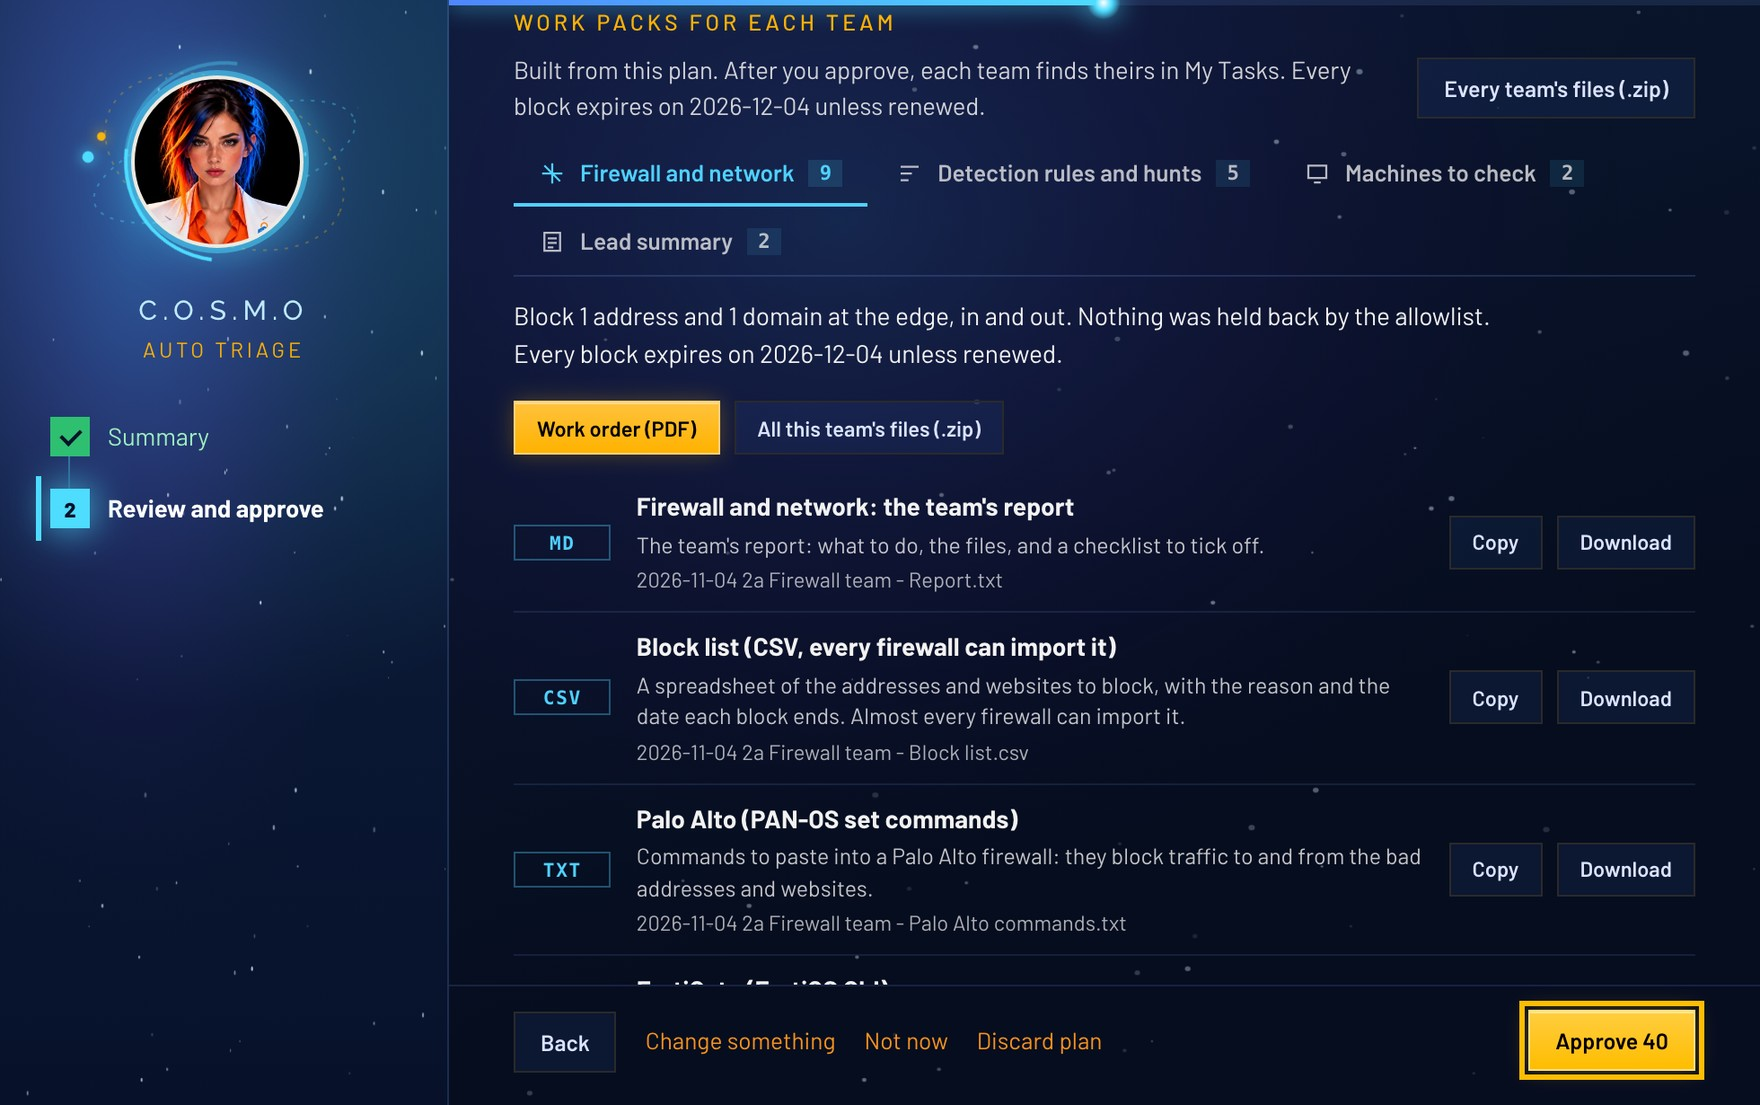
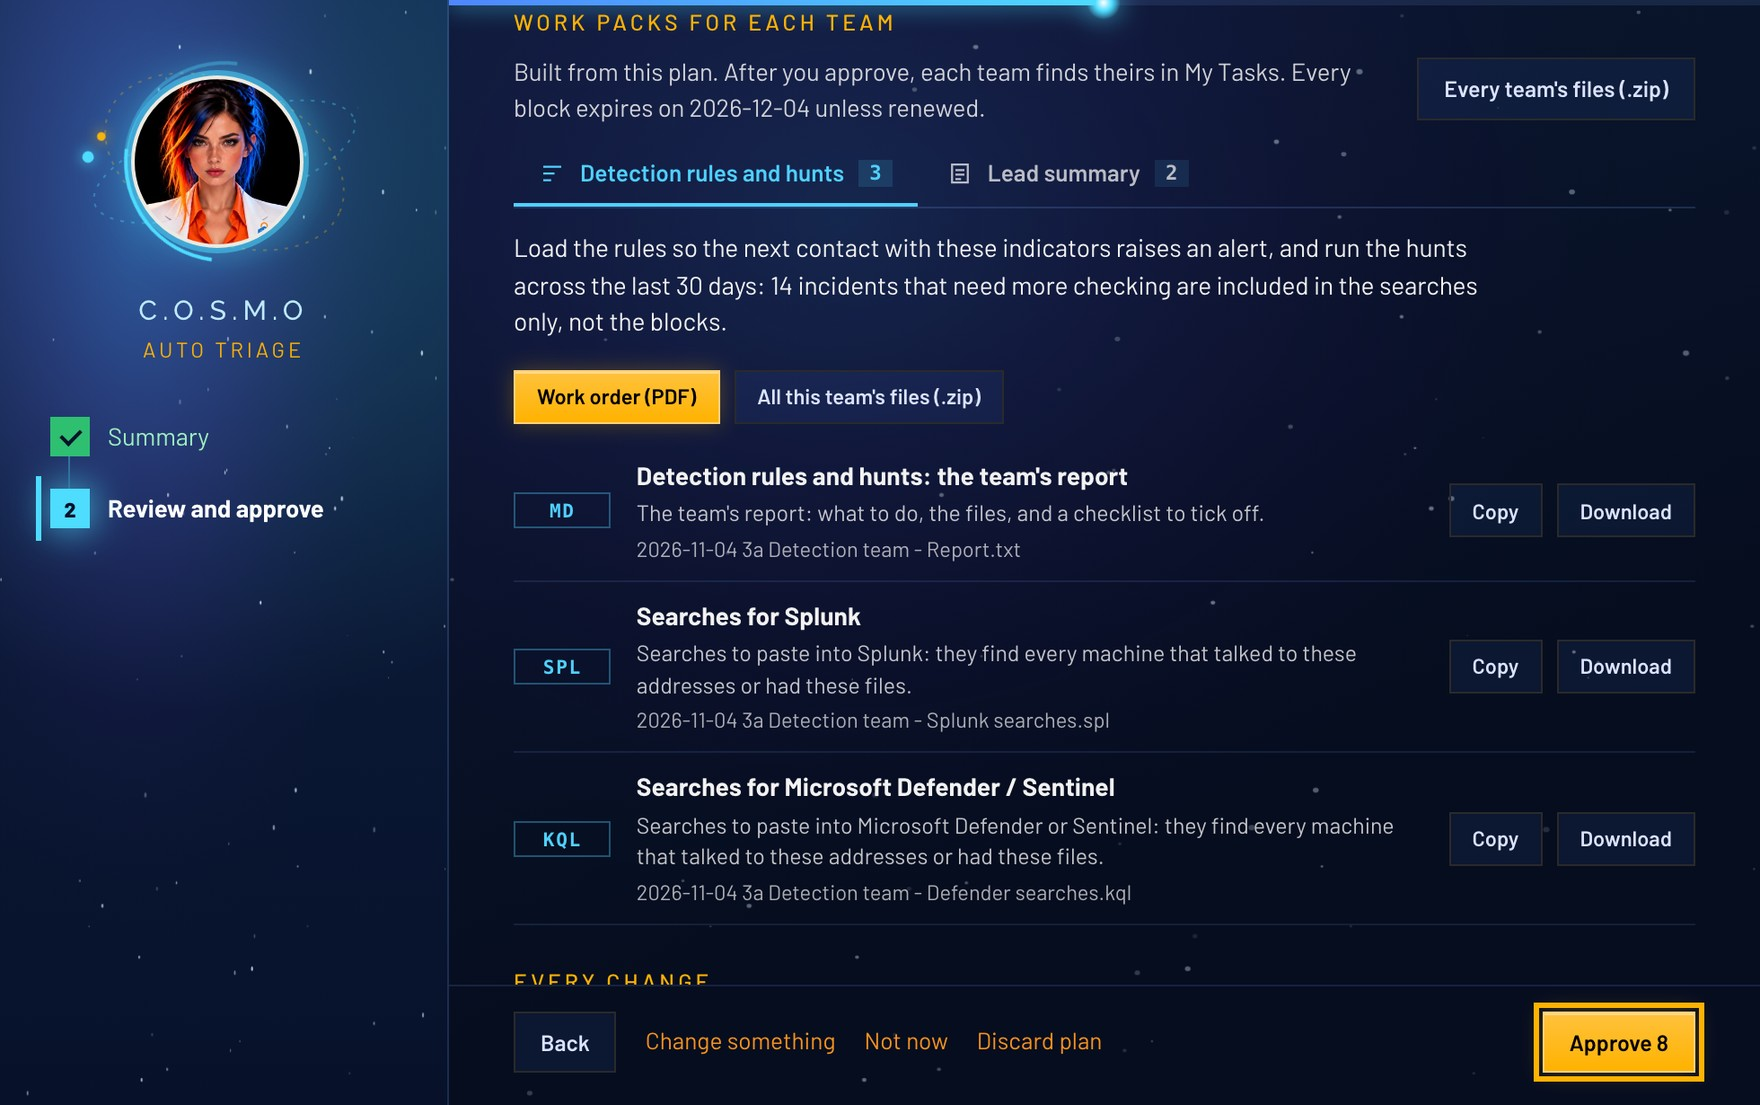
Bot screens: retaken with the new Auto Triage wording

diff --git a/security.html b/security.html
@@ -52,7 +52,7 @@
         
         <ul class="flow"><li class="flow-label">How it works</li><li class="step">C.O.S.M.O recommends</li><li class="arrow" aria-hidden="true"><svg viewBox="0 0 24 24" aria-hidden="true"><use href="#i-arrow"/></svg></li><li class="step person">Your team decides</li><li class="arrow" aria-hidden="true"><svg viewBox="0 0 24 24" aria-hidden="true"><use href="#i-arrow"/></svg></li><li class="step">Sealed record</li></ul>
       </div>
-      <div class="feature-media" data-reveal="right"><figure class="device-laptop "><div class="lid"><div class="screen"><img src="assets/img/bot-4-packs.jpg?v=20261109n" width="1760" height="1105" alt="Work orders for each team: firewall commands and rules, ready to copy or download. C.O.S.M.O writes them and your team applies them." loading="lazy"></div></div><div class="base"></div></figure></div>
+      <div class="feature-media" data-reveal="right"><figure class="device-laptop "><div class="lid"><div class="screen"><img src="assets/img/bot-4-packs.jpg?v=20261109q" width="1760" height="1105" alt="Work orders for each team: firewall commands and rules, ready to copy or download. C.O.S.M.O writes them and your team applies them." loading="lazy"></div></div><div class="base"></div></figure></div>
     </div>
   </div>
 </section>

diff --git a/index.html b/index.html
@@ -136,9 +136,9 @@
         <div class="morph-glass">
           <img src="assets/img/bot-5-chat.jpg?v=20261103c" alt="" loading="lazy">
           <img src="assets/img/bot-1-queue.jpg?v=20261103c" alt="" loading="lazy">
-          <img src="assets/img/bot-2-plan.jpg?v=20261109n" alt="" loading="lazy">
-          <img src="assets/img/bot-3-approve.jpg?v=20261109n" alt="" loading="lazy">
-          <img src="assets/img/bot-4-packs.jpg?v=20261109n" alt="" loading="lazy">
+          <img src="assets/img/bot-2-plan.jpg?v=20261109q" alt="" loading="lazy">
+          <img src="assets/img/bot-3-approve.jpg?v=20261109q" alt="" loading="lazy">
+          <img src="assets/img/bot-4-packs.jpg?v=20261109q" alt="" loading="lazy">
         </div>
         <img class="morph-frame" src="assets/img/mock/macbook-frame.png" alt="">
       </figure>
